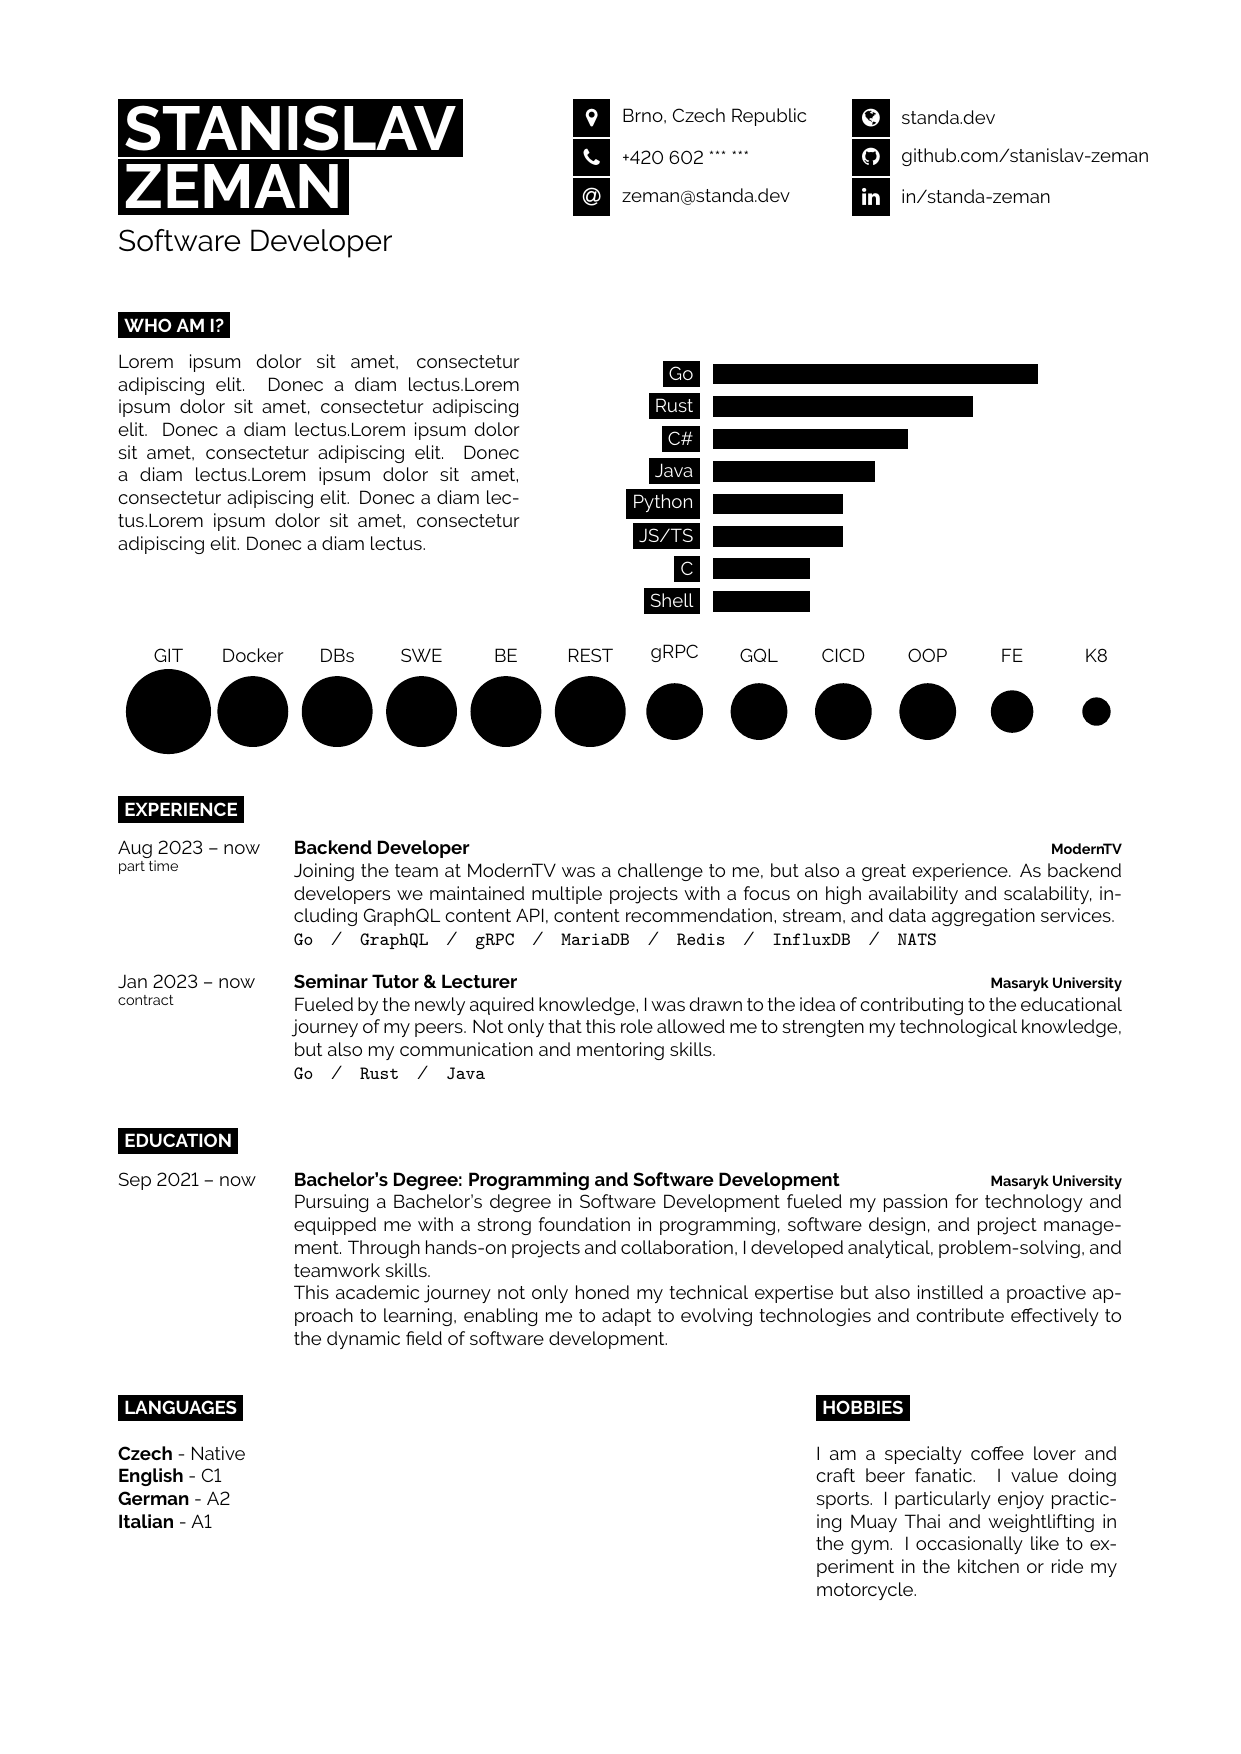
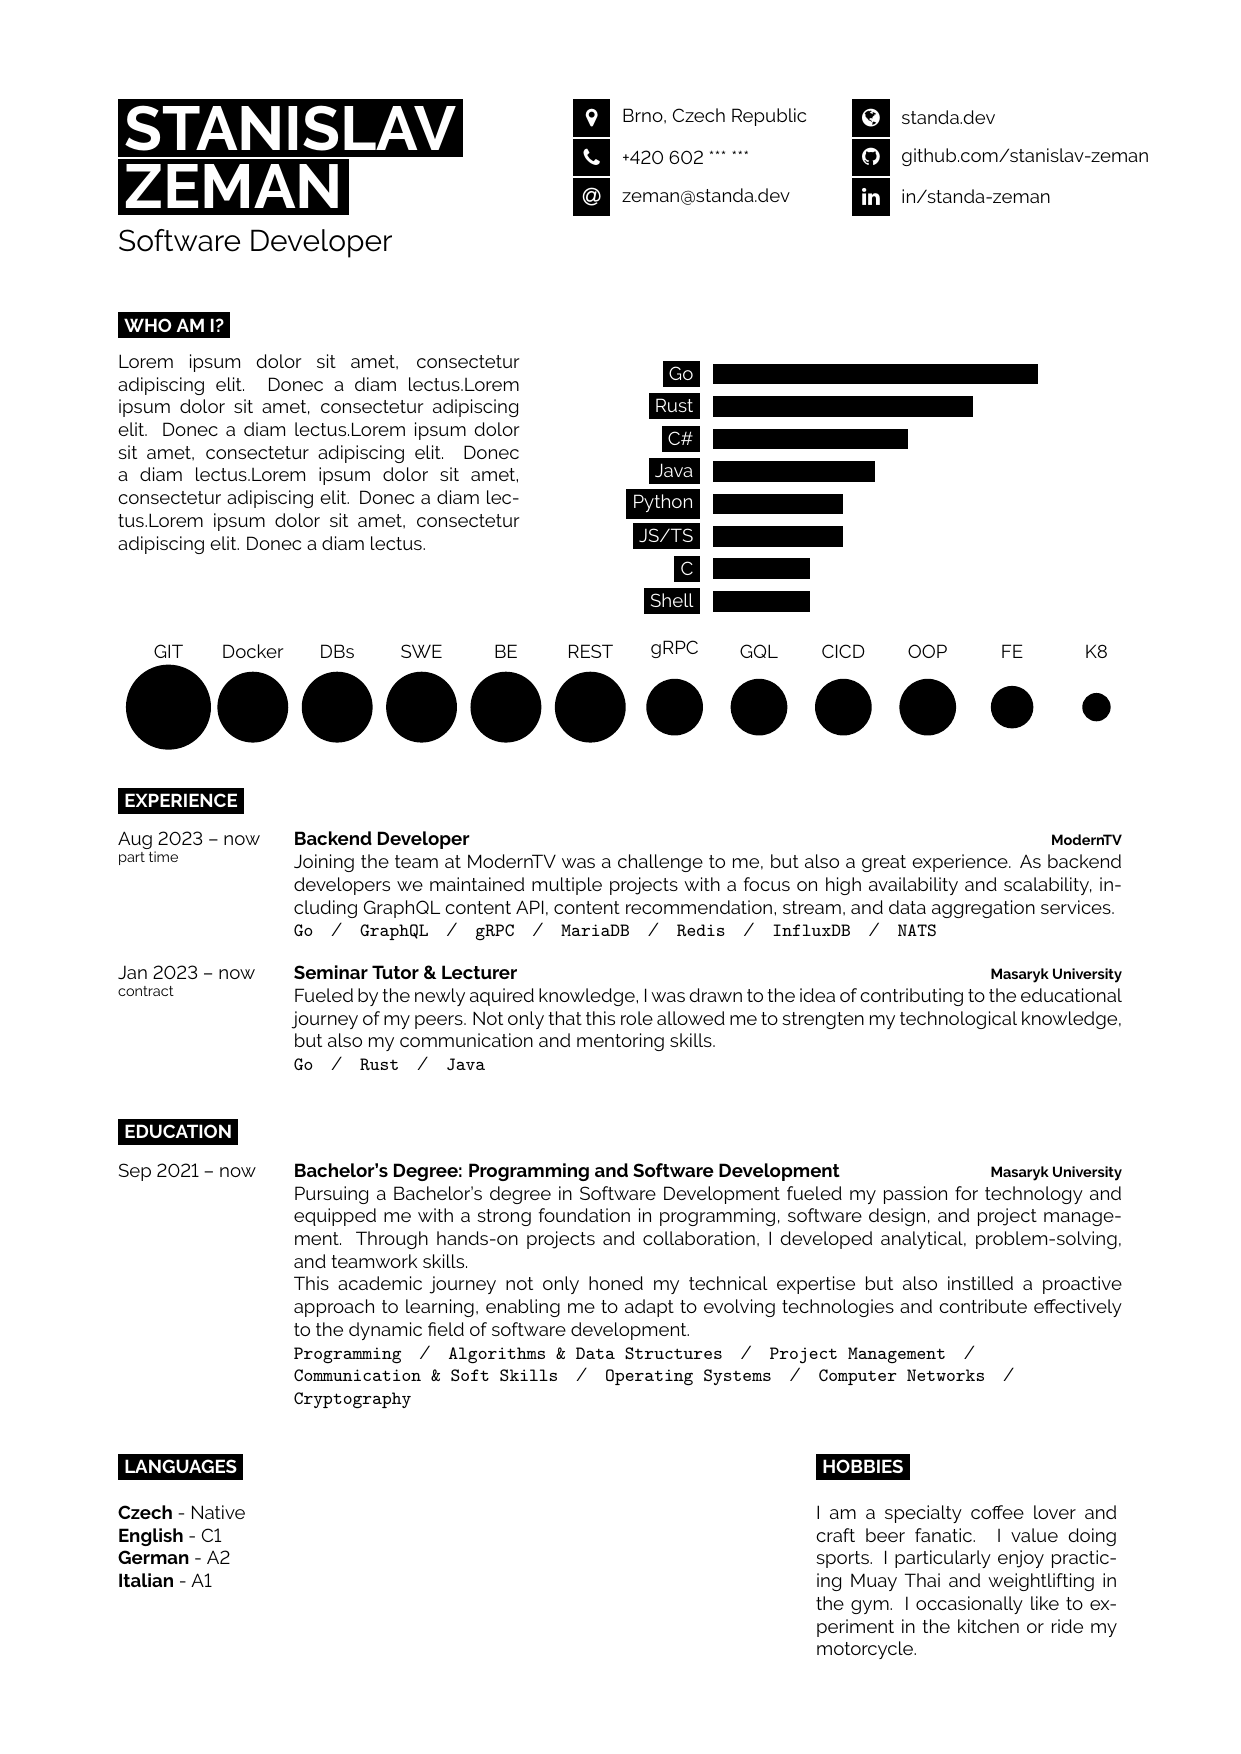
feat: add skills to education

diff --git a/cv.tex b/cv.tex
@@ -77,7 +77,7 @@
 		{Sep 2021 -- now}
 		{Bachelor's Degree: Programming and Software Development}
 		{Masaryk University}
-		{Pursuing a Bachelor's degree in Software Development fueled my passion for technology and equipped me with a strong foundation in programming, software design, and project management. Through hands-on projects and collaboration, I developed analytical, problem-solving, and teamwork skills.\\ This academic journey not only honed my technical expertise but also instilled a proactive approach to learning, enabling me to adapt to evolving technologies and contribute effectively to the dynamic field of software development.}
+        {Pursuing a Bachelor's degree in Software Development fueled my passion for technology and equipped me with a strong foundation in programming, software design, and project management. Through hands-on projects and collaboration, I developed analytical, problem-solving, and teamwork skills.\\ This academic journey not only honed my technical expertise but also instilled a proactive approach to learning, enabling me to adapt to evolving technologies and contribute effectively to the dynamic field of software development.\\ \texttt{Programming}\slashsep\texttt{Algorithms \& Data Structures}\slashsep\texttt{Project Management}\slashsep\\ \texttt{Communication \& Soft Skills}\slashsep\texttt{Operating Systems}\slashsep\texttt{Computer Networks}\slashsep\texttt{Cryptography}}
 \end{entrylist}
 
 \begin{minipage}[t]{0.3\textwidth}
